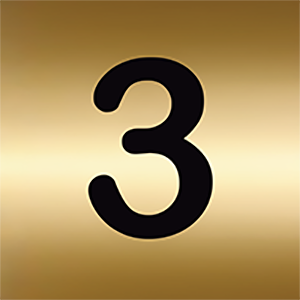
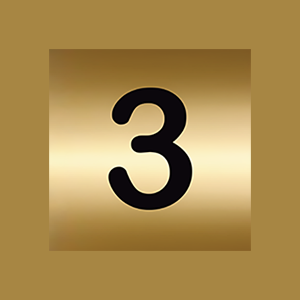
Add files via upload

diff --git a/script.js b/script.js
@@ -4,7 +4,7 @@ document.addEventListener("DOMContentLoaded", function () {
 
     for (let i = 1; i <= 9; i++) {
         let piece = document.createElement("img");
-        piece.src = `Images/piece${i}.png`;  // Correct path
+        piece.src = `Images/piece${i}.png`;
         piece.classList.add("puzzle-piece");
         piece.dataset.index = i;
 

diff --git a/style.css b/style.css
@@ -49,7 +49,7 @@ body {
 .puzzle-piece {
     width: 100%;
     height: 100%;
-    object-fit: cover;  /* This makes sure images fill their space */
+    background-color: #ccc;
     cursor: pointer;
     transition: opacity 0.3s ease;
 }
